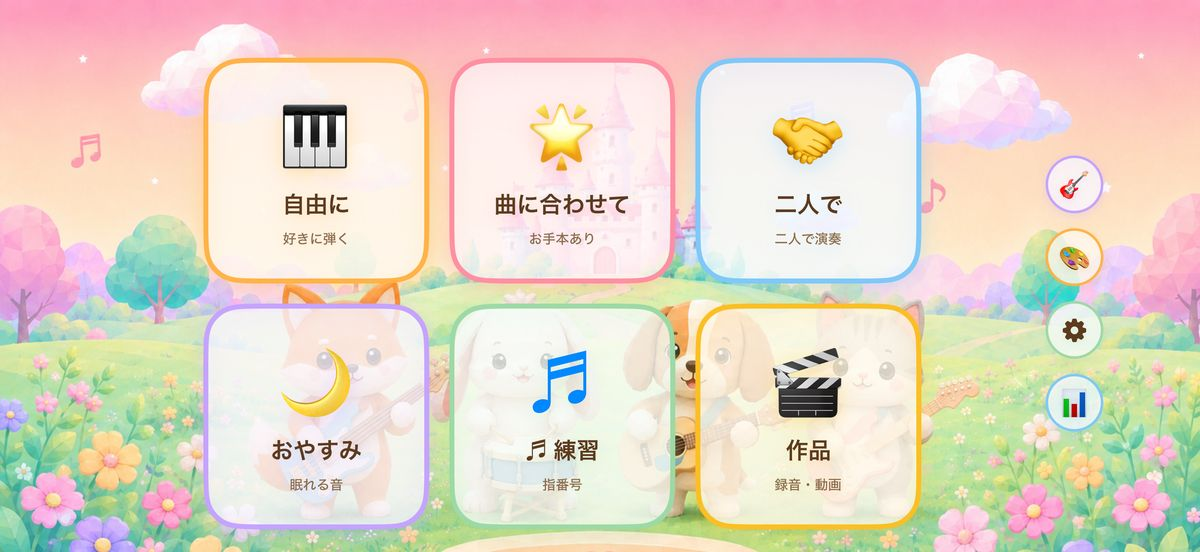
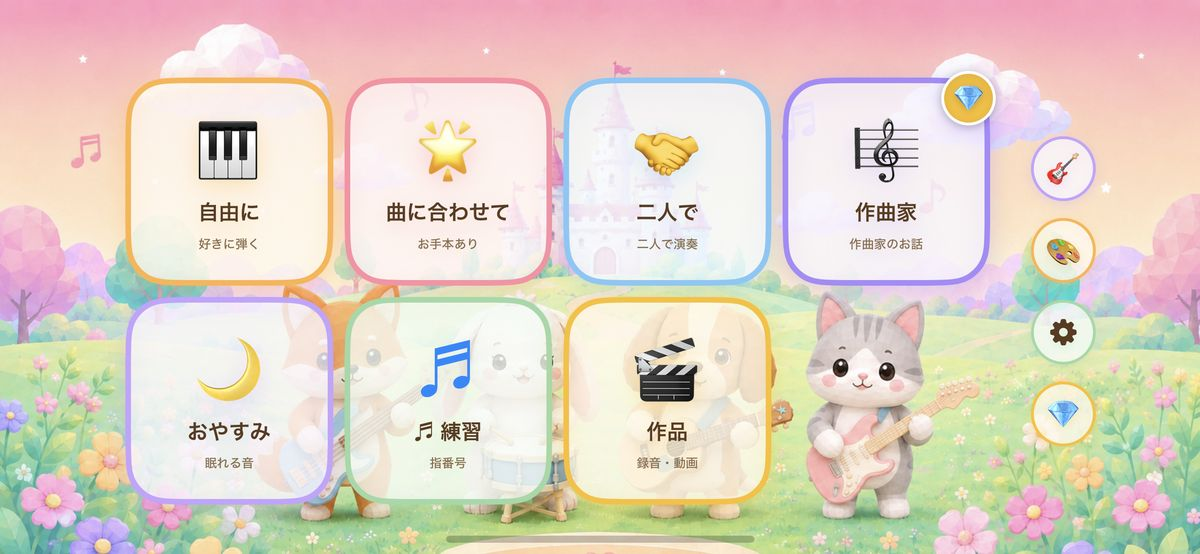
LP: ホーム画面スクショを最新版に差し替え (作曲家ずかんタイル入り)

diff --git a/index.html b/index.html
@@ -75,7 +75,7 @@
     <h2>画面はぜんぶ、絵本のなか</h2>
     <div class="gallery">
       <figure><img src="assets/screenshots/04-guideplaying.jpg" alt="曲に合わせてモード — 上から落ちてくるノートに合わせて鍵盤をタッチ" loading="lazy" width="1200" height="552" /><figcaption>おちてくるノートにあわせてタッチするだけ</figcaption></figure>
-      <figure><img src="assets/screenshots/01-startmenu.jpg" alt="ホーム画面 — 自由に・曲に合わせて・二人で・おやすみ・練習・作品の6モード" loading="lazy" width="1200" height="552" /><figcaption>自由演奏・練習・連弾・おやすみ…あそべるモードいろいろ</figcaption></figure>
+      <figure><img src="assets/screenshots/01-startmenu.jpg" alt="ホーム画面 — 自由に・曲に合わせて・二人で・作曲家・おやすみ・練習・作品の7モード" loading="lazy" width="1200" height="554" /><figcaption>自由演奏・練習・連弾・作曲家ずかん…あそべるモードいろいろ</figcaption></figure>
       <figure><img src="assets/screenshots/03-songlist.jpg" alt="曲リスト — ちょうちょう、きらきらぼしなどの童謡" loading="lazy" width="1200" height="552" /><figcaption>童謡からクラシックまで 50曲以上</figcaption></figure>
     </div>
   </section>
@@ -138,7 +138,7 @@
     <h2>こんな がめんで あそべるよ</h2>
     <div class="gallery">
       <figure><img src="assets/screenshots/04-guideplaying.jpg" alt="うえから おちてくる おんぷに あわせて けんばんを タッチ" loading="lazy" width="1200" height="552" /><figcaption>おちてくる おんぷに あわせて タッチ</figcaption></figure>
-      <figure><img src="assets/screenshots/01-startmenu.jpg" alt="ホーム がめん — あそべる モードが いっぱい" loading="lazy" width="1200" height="552" /><figcaption>あそべる モードが いっぱい</figcaption></figure>
+      <figure><img src="assets/screenshots/01-startmenu.jpg" alt="ホーム がめん — あそべる モードが いっぱい" loading="lazy" width="1200" height="554" /><figcaption>あそべる モードが いっぱい</figcaption></figure>
       <figure><img src="assets/screenshots/03-songlist.jpg" alt="きょくの リスト — ちょうちょう や きらきらぼし" loading="lazy" width="1200" height="552" /><figcaption>どうよう も クラシックも ごじゅっきょく いじょう</figcaption></figure>
     </div>
   </section>
@@ -194,7 +194,7 @@
     <h2>Every screen feels like a picture book.</h2>
     <div class="gallery">
       <figure><img src="assets/screenshots/04-guideplaying.jpg" alt="Play-along mode — tap the keys as falling color bars reach them" loading="lazy" width="1200" height="552" /><figcaption>Just tap along with the falling notes</figcaption></figure>
-      <figure><img src="assets/screenshots/01-startmenu.jpg" alt="Home screen — free play, play along, duet, sleep, practice and creations modes" loading="lazy" width="1200" height="552" /><figcaption>Free play, practice, duets, sleepy-time… so many ways to play</figcaption></figure>
+      <figure><img src="assets/screenshots/01-startmenu.jpg" alt="Home screen — free play, play along, duet, composer stories, sleep, practice and creations modes" loading="lazy" width="1200" height="554" /><figcaption>Free play, practice, duets, composer stories… so many ways to play</figcaption></figure>
       <figure><img src="assets/screenshots/03-songlist.jpg" alt="Song list with nursery songs" loading="lazy" width="1200" height="552" /><figcaption>50+ songs, from nursery tunes to classics</figcaption></figure>
     </div>
   </section>
